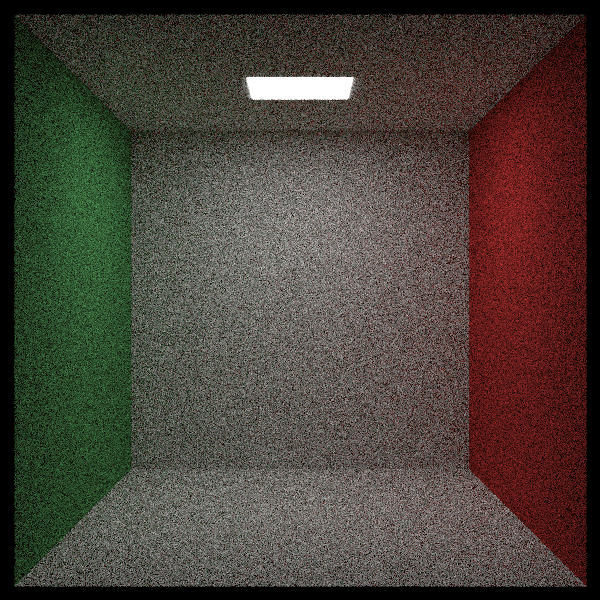
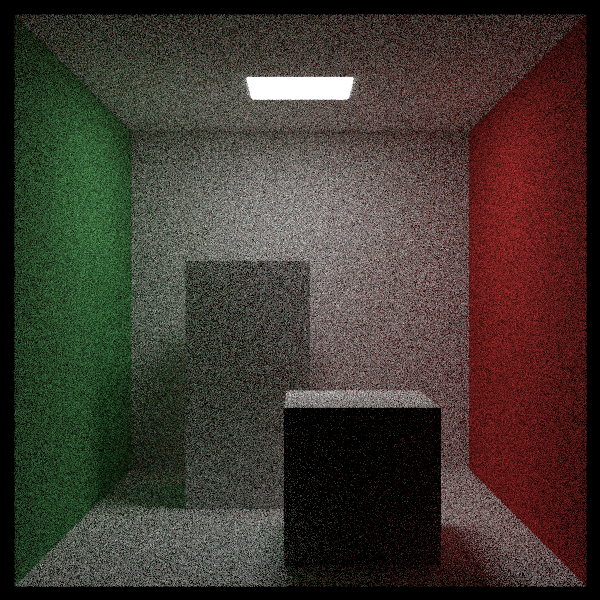
Cornell box with two blocks

diff --git a/main.cpp b/main.cpp
@@ -194,12 +194,12 @@ void quads() {
     // Quads
     world.add(make_shared<quad>(point3(-3.0f, -2.0f, 5.0f), vec3(0.0f, 0.0f, -4.0f), vec3(0.0f, 4.0f, 0.0f), left_red));
     world.add(
-            make_shared<quad>(point3(-2.0f, -2.0f, 0.0f), vec3(4.0f, 0.0f, 0.0f), vec3(0.0f, 4.0f, 0.0f), back_green));
+        make_shared<quad>(point3(-2.0f, -2.0f, 0.0f), vec3(4.0f, 0.0f, 0.0f), vec3(0.0f, 4.0f, 0.0f), back_green));
     world.add(make_shared<quad>(point3(3.0f, -2.0f, 1.0f), vec3(0.0f, 0.0f, 4.0f), vec3(0.0f, 4.0f, 0.0f), right_blue));
     world.add(
-            make_shared<quad>(point3(-2.0f, 3.0f, 1.0f), vec3(4.0f, 0.0f, 0.0f), vec3(0.0f, 0.0f, 4.0f), upper_orange));
+        make_shared<quad>(point3(-2.0f, 3.0f, 1.0f), vec3(4.0f, 0.0f, 0.0f), vec3(0.0f, 0.0f, 4.0f), upper_orange));
     world.add(
-            make_shared<quad>(point3(-2.0f, -3.0f, 5.0f), vec3(4.0f, 0.0f, 0.0f), vec3(0.0f, 0.0f, -4.0f), lower_teal));
+        make_shared<quad>(point3(-2.0f, -3.0f, 5.0f), vec3(4.0f, 0.0f, 0.0f), vec3(0.0f, 0.0f, -4.0f), lower_teal));
 
     camera cam;
 
@@ -264,8 +264,13 @@ void cornell_box() {
     world.add(make_shared<quad>(point3(343.0f, 554.0f, 332.0f), vec3(-130.0f, 0.0f, 0.0f), vec3(0.0f, 0.0f, -105.0f),
                                 light));
     world.add(make_shared<quad>(point3(0.0f, 0.0f, 0.0f), vec3(555.0f, 0.0f, 0.0f), vec3(0.0f, 0.0f, 555.0f), white));
-    world.add(make_shared<quad>(point3(555.0f, 555.0f, 555.0f), vec3(-555.0f, 0.0f, 0.0f), vec3(0.0f, 0.0f, -555.0f), white));
+    world.add(make_shared<quad>(point3(555.0f, 555.0f, 555.0f), vec3(-555.0f, 0.0f, 0.0f), vec3(0.0f, 0.0f, -555.0f),
+                                white));
     world.add(make_shared<quad>(point3(0.0f, 0.0f, 555.0f), vec3(555.0f, 0.0f, 0.0f), vec3(0.0f, 555.0f, 0.0f), white));
+
+    // two blocks
+    world.add(box(point3(130.0f, 0.0f, 65.0f), point3(295.0f, 165.0f, 230.0f), white));
+    world.add(box(point3(265.0f, 0.0f, 295.0f), point3(430.0f, 330.0f, 460.0f), white));
 
     camera cam;
 

diff --git a/quad.h b/quad.h
@@ -4,11 +4,12 @@
 #include "rt_constants.h"
 
 #include "hittable.h"
+#include "hittable_list.h"
 
 class quad : public hittable {
 public:
     quad(const point3 &Q, const point3 &u, const point3 &v, shared_ptr<material> mat)
-            : Q(Q), u(u), v(v), mat(mat) {
+        : Q(Q), u(u), v(v), mat(mat) {
         // 平面方程：Ax + By + Cz = D，需要确定四个系数 A, B, C, D
         // 令 normal 为 (A, B, C)，代表平面法线，由两个边向量 u, v 叉乘得出
         auto n = cross(u, v);
@@ -114,5 +115,28 @@ private:
     vec3 normal; // 平面法线
     float D;
 };
+
+inline shared_ptr<hittable_list> box(const point3 &a, const point3 &b, shared_ptr<material> mat) {
+    // Returns the 3D box (six sides) that contains the two opposite vertices a & b.
+
+    auto sides = make_shared<hittable_list>();
+
+    // Construct the two opposite vertices with the minimum and maximum coordinates.
+    auto min = point3(std::fmin(a.x(), b.x()), std::fmin(a.y(), b.y()), std::fmin(a.z(), b.z()));
+    auto max = point3(std::fmax(a.x(), b.x()), std::fmax(a.y(), b.y()), std::fmax(a.z(), b.z()));
+
+    auto dx = vec3(max.x() - min.x(), 0.0f, 0.0f);
+    auto dy = vec3(0.0f, max.y() - min.y(), 0.0f);
+    auto dz = vec3(0.0f, 0.0f, max.z() - min.z());
+
+    sides->add(make_shared<quad>(point3(min.x(), min.y(), max.z()), dx, dy, mat)); // front
+    sides->add(make_shared<quad>(point3(max.x(), min.y(), max.z()), -dz, dy, mat)); // right
+    sides->add(make_shared<quad>(point3(max.x(), min.y(), min.z()), -dx, dy, mat)); // back
+    sides->add(make_shared<quad>(point3(min.x(), min.y(), min.z()), dz, dy, mat)); // left
+    sides->add(make_shared<quad>(point3(min.x(), max.y(), max.z()), dx, -dz, mat)); // top
+    sides->add(make_shared<quad>(point3(min.x(), min.y(), min.z()), dx, dz, mat)); // bottom
+
+    return sides;
+}
 
 #endif // QUAD_H
